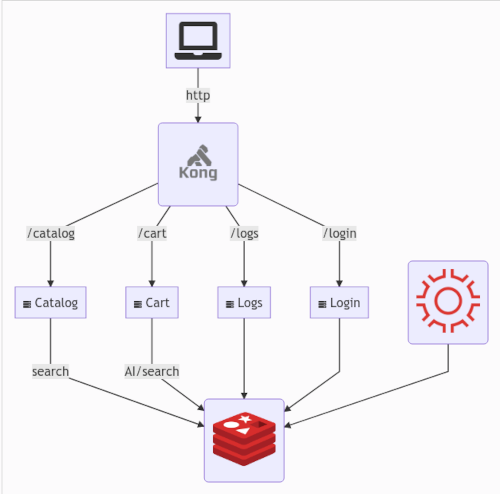
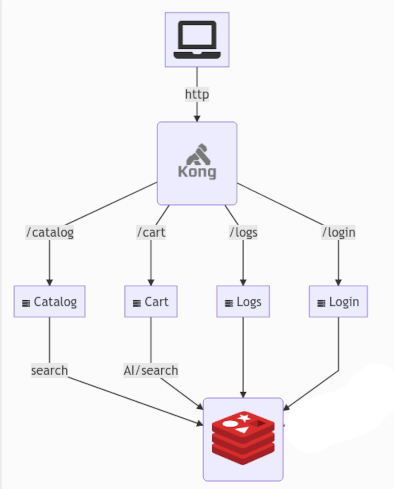
changes for specific presentation

Changed region(s): [[0.0305, 0.0, 0.9746, 1.0], [0.731, 0.4294, 0.8223, 0.4601], [0.6701, 0.3988, 0.731, 0.4294]]

diff --git a/docs/Presentation.md b/docs/Presentation.md
@@ -13,13 +13,13 @@ slideNumber: false
 
 ## Goals
 
+- Minimize detection time
+
 - Stop fraud as early as possible in the process
 
 - Layer the approach for maximum efficiency 
 
 - Only run computationally expensive calculations when absolutely necessary
-
-- Use event sourcing and microservices for ease of update
 
 ---
 
@@ -50,8 +50,6 @@ slideNumber: false
 
 |Component|Usage|
 |--|--|
-|Redis Streams | Message bus |
-|Redis Gears | Event processing |
 |Redis Search | Catalog and Shopping Cart |
 |Redis Bloom | User purchase profiles |
 |Redis AI | Cart scoring |
@@ -61,7 +59,6 @@ slideNumber: false
 
 ## Services - Identity
 
-### Redis Gear
 <br>
 
 - Check user session (cookie)
@@ -73,7 +70,7 @@ slideNumber: false
 
 ## Services - Profile
 
-### Redis Gear/Bloom
+### Redis Bloom
 <br>
 
 - purchased from this category before?
@@ -84,23 +81,34 @@ slideNumber: false
 
 ## Services - AI
 
-### Redis Gear/AI
+### Redis AI
 <br>
 
-- basket comparison
+- Market Basket Analysis
 - to be avoided if possible
 - Score AI 0.0-1.0
 
 ---
 
+## Scoring
+
+<small>
+
+- Each stage checks the cumulative score
+- If it exceeds 1.5 we consider it safe and proceed
+- Unsafe scores in the cart require further action
+
+</small>
+
+---
+
 ## Services - Cart
 
-### Redis Gear
+### Redis Search
 <br>
 
-- store in search
+- stored in search by session
 - rescore can be triggered
-- other services use gear to display information
 
 ---
 

diff --git a/docs/bad_user_sequence.md b/docs/bad_user_sequence.md
@@ -1,14 +1,8 @@
 sequenceDiagram
-autonumber
-    Catalog->>CHECK-IDENTITY: XADD to stream
-    IdentityService->>CHECK-IDENTITY: XREAD from stream
-    IdentityService-->IdentityService: Score
-    IdentityService-->CHECK-PROFILE: XADD to stream
-    ProfileService-->CHECK-PROFILE: XREAD
-    ProfileService->>ProfileService: Score
-    ProfileService->>CHECK-AI: XADD to stream
-    AIService-->CHECK-AI: XREAD
-    AIService-->AIService: Score
-    AIService->>CART-ADD: XADD
-    CartService-->CART-ADD: XREAD
-    CartService->>ShoppingCart: Submit
+    Catalog->>+IdentityService: Submit
+    IdentityService->>+IdentityService: Score Identity
+    IdentityService-->>+ProfileService: ID score 0.5
+    ProfileService->>+ProfileService: Score Profile
+    ProfileService->>+AIService: Profile score 0.0
+    AIService->>+AIService: MBA Score
+    AIService->>ShoppingCart: AI Score 0.01

diff --git a/docs/good_user_sequence.md b/docs/good_user_sequence.md
@@ -1,12 +1,7 @@
 sequenceDiagram
-autonumber
-    Catalog->>CHECK-IDENTITY: XADD to stream
-    IdentityService->>CHECK-IDENTITY: XREAD from stream
-    IdentityService-->IdentityService: Score
-    IdentityService-->CHECK-PROFILE: XADD to stream
-    ProfileService-->CHECK-PROFILE: XREAD
-    ProfileService->>ProfileService: Score
-    ProfileService->>CART-ADD: ID and Profile good!!
-    CartService-->CART-ADD: XREAD
-    CartService->>ShoppingCart: Submit
+    Catalog->>+IdentityService: Submit
+    IdentityService->>+IdentityService: Score Identity
+    IdentityService-->>+ProfileService: ID score 1.0
+    ProfileService->>+ProfileService: Score Profile
+    ProfileService->>+ShoppingCart: Profile score 0.5
 

diff --git a/docs/guest_sequence.md b/docs/guest_sequence.md
@@ -1,8 +1,5 @@
 sequenceDiagram
-autonumber
-    Catalog->>CHECK-IDENTITY: XADD to stream
-    IdentityService->>CHECK-IDENTITY: XREAD from stream
-    IdentityService-->IdentityService: is Guest?
-    IdentityService-->CART-ADD: It's a Guest
-    CartService-->CART-ADD: XREAD
-    CartService->>ShoppingCart: Submit
+    Catalog->>+IdentityService: Submit
+    IdentityService->>+IdentityService: Is Guest?
+    IdentityService-->>+ShoppingCart: Guest bypasses
+    

diff --git a/docs/script.md b/docs/script.md
@@ -1,0 +1,22 @@
+add
+
+Automotive bargain
+wireless bargain
+books bargain
+camera luxury
+
+show cart as user guest
+
+login luxmobileapps
+
+don't check anything
+
+show cart, then relogin with both checked
+
+show cart and scores w/ captcha
+
+select cheapandwide (click on browser)
+
+go back to cart and show that it's green, show detailed info
+
+then show user profile

diff --git a/docs/flow.md b/docs/flow.md
@@ -1,5 +1,5 @@
 graph TD
-    A[Purchase] -->|Stream| B(Check Digital Identity)
+    A[Click Purchase] --> B(Check Digital Identity)
     B --> C(Check User Profile)
     C --> D(Check AI)
     D --> E(Add to Cart)
